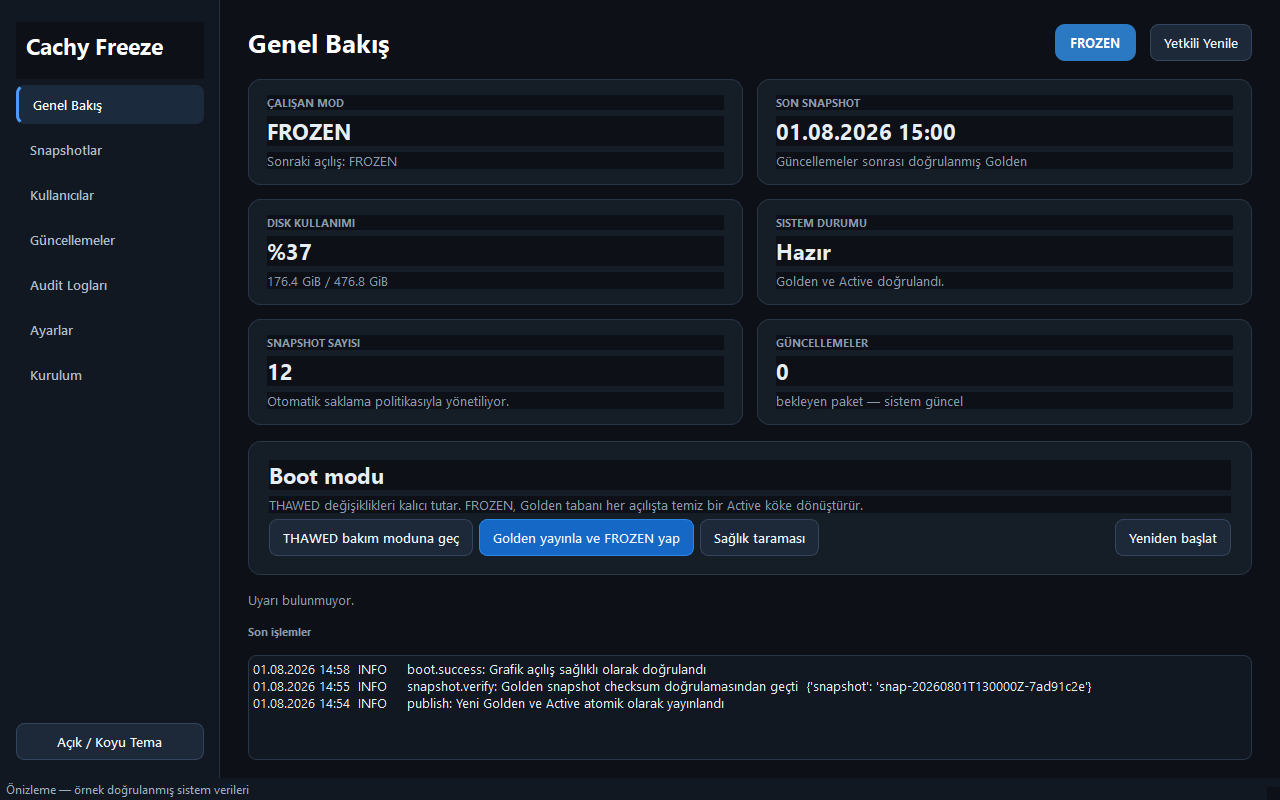
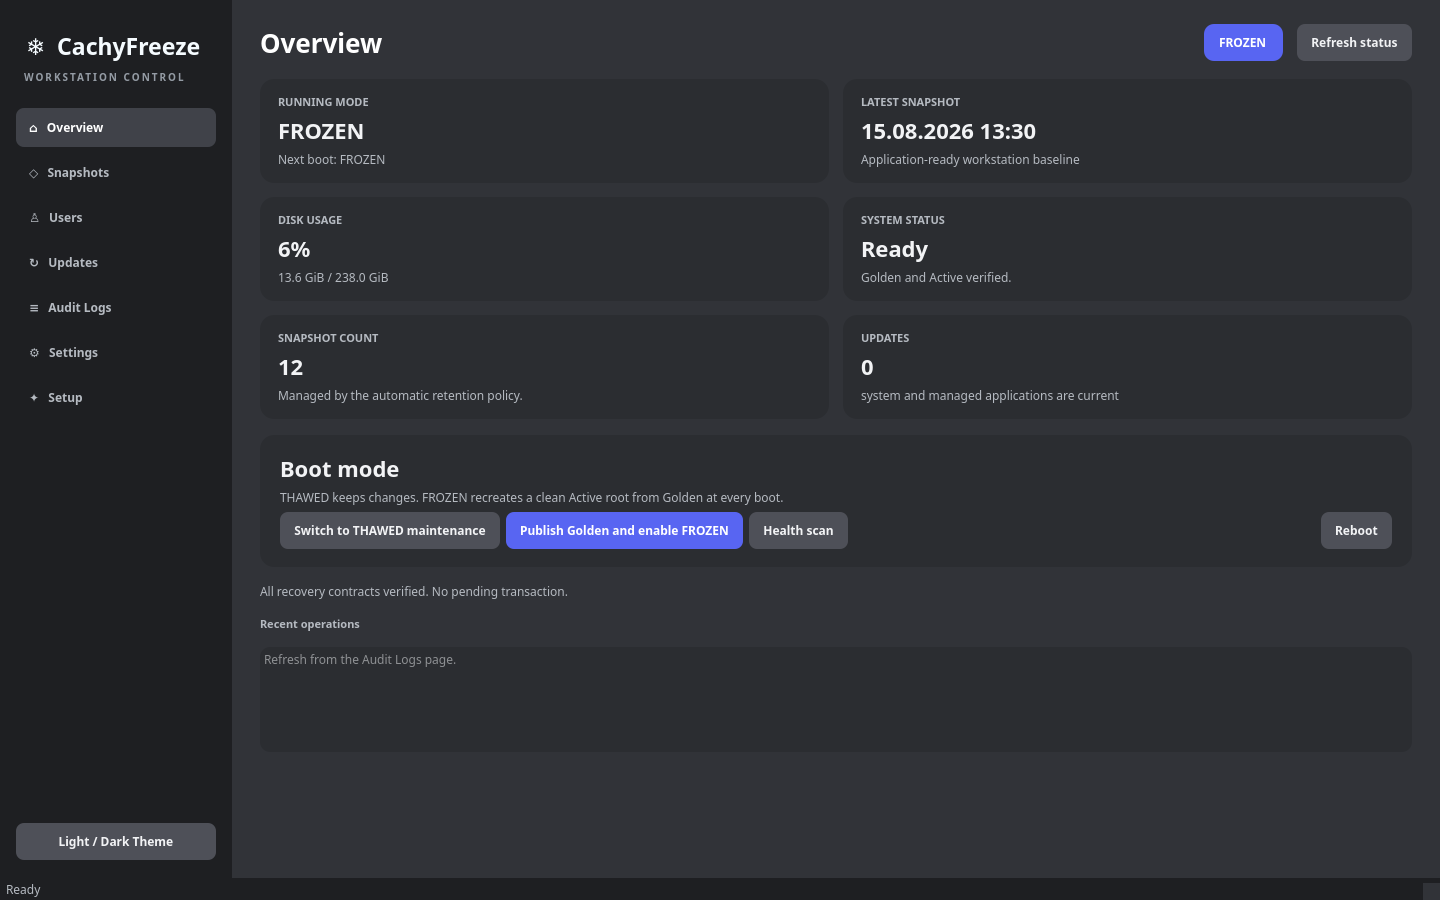
refresh installer documentation and project checks

diff --git a/tests/test_users.py b/tests/test_users.py
@@ -145,9 +145,7 @@ class UserValidationTests(unittest.TestCase):
                 patch.object(manager, "list_users", return_value=[created_user]),
                 patch.object(manager.runner, "run") as run,
             ):
-                self.assertEqual(
-                    manager.create("person_01", "Person One", "1234"), created_user
-                )
+                self.assertEqual(manager.create("person_01", "Person One", "1234"), created_user)
 
             self.assertEqual(run.call_args_list[0].args[0][0], "useradd")
             self.assertEqual(
@@ -176,7 +174,11 @@ class UserValidationTests(unittest.TestCase):
                 patch.object(
                     manager.runner,
                     "run",
-                    side_effect=[SimpleNamespace(returncode=0), RuntimeError("provision failed"), None],
+                    side_effect=[
+                        SimpleNamespace(returncode=0),
+                        RuntimeError("provision failed"),
+                        None,
+                    ],
                 ) as run,
                 self.assertRaisesRegex(RuntimeError, "provision failed"),
             ):

diff --git a/app/cachy_freeze_gui/window.py b/app/cachy_freeze_gui/window.py
@@ -715,7 +715,7 @@ class MainWindow(QMainWindow):
                 "Create a snapshot before the first Golden publication."
             )
         usage = shutil.disk_usage("/")
-        self.disk_card.value.setText(f"%{round(usage.used / usage.total * 100)}")
+        self.disk_card.value.setText(f"{round(usage.used / usage.total * 100)}%")
         self.disk_card.detail.setText(f"{_human_bytes(usage.used)} / {_human_bytes(usage.total)}")
         ready = bool(status.get("golden_present")) and bool(status.get("active_present"))
         pending = bool(status.get("transaction_pending"))

diff --git a/README.md b/README.md
@@ -1,96 +1,166 @@
 # CachyFreeze
 
-CachyFreeze is an open-source, Btrfs-based system freeze and recovery manager
-for CachyOS workstations. It restores managed machines to a known-good state
-after reboot while providing a persistent maintenance mode for administrators.
+[![Quality checks](https://github.com/q0xs/cachy-freeze/actions/workflows/static-tests.yml/badge.svg?branch=main)](https://github.com/q0xs/cachy-freeze/actions/workflows/static-tests.yml)
+[![License](https://img.shields.io/badge/license-Apache--2.0-blue.svg)](LICENSE)
+[![Platform](https://img.shields.io/badge/platform-CachyOS-5865F2.svg)](https://cachyos.org/)
 
-Copyright 2026 Atilla Mert Akkaya. Licensed under the Apache License 2.0.
+CachyFreeze is a graphical Btrfs freeze and recovery manager for managed
+CachyOS workstations. Administrators maintain a persistent system in THAWED
+mode, publish a verified Golden baseline, and return each FROZEN boot to that
+known-good state.
+
+![CachyFreeze Management Center](docs/images/cachy-freeze-management-center-preview.png)
 
 > [!CAUTION]
 > CachyFreeze changes Btrfs subvolumes, initramfs, GRUB, and the boot process.
-> Use a backed-up pilot device with physical access and recovery media.
+> Use a backed-up pilot device with physical access and recovery media. The
+> installer intentionally stops on unsupported disk or boot layouts.
 
-## Core capabilities
+## What it provides
 
-- FROZEN mode recreates a writable `@active` root from read-only `@golden`.
-- THAWED mode boots the persistent `@` maintenance root.
-- Interrupted Golden/Active transactions are recovered during early boot.
-- Repeated boot failures can restore the previous known-good Golden snapshot.
-- Snapshot creation, verification, comparison, export, import, retention, and
-  rollback are available from one desktop application.
-- Standard-user lifecycle, protected updates, audit logs, and boot policy are
-  managed from the same application.
-- Privileged operations use a strict PolicyKit helper allow-list.
-- Passwords and reusable password hashes travel through stdin, never command
-  arguments or logs.
+- FROZEN mode recreates writable `@active` from read-only `@golden` on boot.
+- THAWED mode boots the persistent `@` maintenance system.
+- Interrupted Golden and Active rotations use durable transaction recovery.
+- Repeated boot failures can restore the previous healthy Golden baseline.
+- Snapshots can be created, verified, compared, exported, imported, retained,
+  rolled back, and published from one desktop application.
+- Application-ready standard users receive verified desktop shortcuts, KDE
+  defaults, Chrome policy, and an isolated MicroSIP Wine profile.
+- The administrator remains fully privileged but is hidden from the graphical
+  login screen during FROZEN operation.
+- PolicyKit keeps the graphical application unprivileged and restricts root
+  operations to an explicit helper allow-list.
+- Passwords and reusable password hashes travel through stdin, never through
+  command arguments, environment variables, or logs.
 
-## Install
+## Supported system
 
-Install from a terminal with one command:
+CachyFreeze currently requires all of the following:
+
+- CachyOS with KDE Plasma
+- UEFI firmware
+- Btrfs root using the `@` subvolume
+- GRUB with the EFI system partition mounted at `/boot/efi`
+- no separate `/boot` filesystem
+- an existing `localadm` administrator account
+- AC power, recovery media, and a restorable backup
+
+It is not a generic installer for arbitrary Arch, ext4, BIOS, systemd-boot, or
+custom Btrfs layouts.
+
+## Download the complete installer
+
+The recommended method clones the complete repository, preserving executable
+permissions and downloading every installer, application, policy, user asset,
+test, and recovery component required by CachyFreeze:
+
+```bash
+git clone --depth 1 --branch main https://github.com/q0xs/cachy-freeze.git
+cd cachy-freeze
+sudo ./install.sh
+```
+
+You can also download the complete source bundle directly:
+
+**[Download the complete CachyFreeze installer (ZIP)](https://github.com/q0xs/cachy-freeze/archive/refs/heads/main.zip)**
+
+After extracting the ZIP, run this inside the extracted directory:
+
+```bash
+chmod +x install.sh app/cachy-freeze-setup app/cachy-freeze-manager-helper
+sudo ./install.sh
+```
+
+The root-level [`install.sh`](install.sh) is the public terminal installer. It
+runs the supported-layout preflight, installs the complete engine and graphical
+management application, publishes the initial Golden baseline, and leaves the
+next boot safely scheduled as THAWED.
+
+### Bootstrap installation
+
+For a disposable pilot or after reviewing the remote script, the short bootstrap
+command remains available:
 
 ```bash
 curl -fsSL https://raw.githubusercontent.com/q0xs/cachy-freeze/main/install.sh | sudo bash
 ```
 
-Alternatively, launch `cachyfreeze-setup.desktop` and use the Setup page. Both
-paths run the same preflight and privileged installer. Review `install.sh`
-before piping it to a root shell in security-sensitive environments.
+The downloaded bootstrap is not a partial installation: it installs Git, clones
+the complete `main` repository into a temporary directory, runs the same
+`installer/install-cachyfreeze.sh`, and removes only that temporary clone after
+completion.
 
-Installation leaves the system in THAWED maintenance mode. Engine installation,
-user creation, and FROZEN activation are independent:
+### Graphical setup
 
-1. Install CachyFreeze.
-2. Optionally create or manage users from the Users page at any time.
-3. Enable FROZEN from Setup, or publish later changes from Overview.
+To start from the desktop, clone or extract the complete installer and launch
+[`cachyfreeze-setup.desktop`](cachyfreeze-setup.desktop). The graphical Setup
+page uses the same preflight and privileged installer as the terminal entrypoint.
 
-No user account is required to enable FROZEN mode.
+## First workstation setup
 
-Application-ready standard users are created from the Users page while the
-machine is in THAWED maintenance mode. Install or repair the managed application
-set from Updates first. User creation then verifies the application commands,
-prepares the KDE desktop and isolated MicroSIP Wine profile, confirms that the
-account has no administrator membership, and captures its clean home template.
-The creation dialog can publish Golden and schedule FROZEN immediately afterward;
-reboot remains a separate, explicit action.
+Installation, application installation, user creation, and FROZEN activation
+are deliberately independent:
 
-## Requirements
+1. Install CachyFreeze. The machine remains in THAWED maintenance mode.
+2. Open **Updates** and select **Install / repair applications**.
+3. Open **Users** and select **Create ready user**.
+4. Use a lowercase login such as `wrw21166`; the account is created with native
+   CachyOS standard-user defaults and is rejected if it unexpectedly has
+   administrator membership.
+5. Keep **Publish Golden and schedule FROZEN mode after creation** enabled if the
+   next manually initiated reboot should present the prepared employee account.
 
-- CachyOS with KDE Plasma
-- UEFI boot
-- Btrfs root using the `@` subvolume
-- GRUB
-- EFI system partition mounted at `/boot/efi`
-- no separate `/boot` filesystem
-- a working `localadm` administrator account
-- AC power, recovery media, and a recoverable backup
+User provisioning verifies Chrome, Slack, LibreOffice, Zoiper, AnyDesk, Wine,
+and MicroSIP before capturing the clean home template. Failure removes the
+partial account and candidate template. CachyFreeze does not rewrite the
+account's native group membership.
 
-## Architecture
+No operation in the creation dialog reboots the computer automatically.
 
-| Component | Responsibility |
+## Boot model
+
+| Subvolume | Role |
 | --- | --- |
-| `app/` | PyQt6 desktop application, launcher, and PolicyKit boundary |
-| `src/cachy_freeze/` | Snapshot, boot, settings, update, audit, and user domain logic |
-| `deepfreeze/` | Btrfs early-boot reset, GRUB, initramfs, and systemd integration |
-| `installer/` | Internal GUI-driven provisioning actions; not user entry points |
-| `user/` | Managed-user desktop and home-reset integration |
+| `@` | Persistent THAWED maintenance root |
+| `@golden` | Read-only known-good baseline |
+| `@active` | Disposable writable FROZEN runtime |
+| `@cachy-state` | Persistent settings, audit, health, and transaction state |
+| `@cachy-snapshots` | Managed recovery snapshots |
+
+FROZEN is the passwordless daily boot path. THAWED maintenance is protected by
+the GRUB `cachyadmin` credential configured during activation.
+
+## Repository layout
+
+| Path | Responsibility |
+| --- | --- |
+| `install.sh` | Public complete-repository terminal installer |
+| `app/` | PyQt6 Management Center, launcher, PolicyKit helper, desktop files |
+| `src/cachy_freeze/` | Snapshot, boot, settings, update, audit, and user logic |
+| `deepfreeze/` | Btrfs early-boot reset, GRUB, initramfs, systemd, safe tests |
+| `installer/` | Internal verified installation and maintenance operations |
+| `user/` | Managed-user desktop assets and FROZEN home reset integration |
 | `policies/` | Managed application policies |
-| `tests/` | Unit and setup-contract tests |
+| `vendor/aur/` | Reviewed AUR build inputs used by application installation |
+| `tests/` | Python and graphical contract tests |
+| `docs/` | Architecture, installation, recovery, development, and test evidence |
 
-The persistent Btrfs model is documented in
-[docs/architecture.md](docs/architecture.md).
+## Validation
 
-## Development checks
+The normal local quality gate is:
 
 ```bash
 ruff check src app/cachy_freeze_gui tests
 ruff format --check src app/cachy_freeze_gui tests
-python -m unittest discover -s tests -v
+PYTHONPATH=src:app python -m unittest discover -s tests -v
 SHELLCHECK_OPTS=--severity=error bash deepfreeze/tests/static.sh
 QT_QPA_PLATFORM=offscreen bash deepfreeze/tests/ui-smoke.sh
+bash deepfreeze/tests/grub-generation.sh
 ```
 
-Btrfs loop, initramfs, GRUB, reboot, and power-loss tests must run only on a
-disposable VM or an explicitly approved pilot device.
+Loop-backed Btrfs, initramfs, reboot, recovery, and power-loss tests must run only
+on a disposable VM or an explicitly approved pilot device. Executed evidence is
+recorded in [`docs/testing/TEST-LOG.md`](docs/testing/TEST-LOG.md).
 
 ## Documentation
 
@@ -98,8 +168,11 @@ disposable VM or an explicitly approved pilot device.
 - [Architecture](docs/architecture.md)
 - [Boot recovery](docs/boot-recovery.md)
 - [Development workflow](docs/development.md)
-- [Test log](docs/testing/TEST-LOG.md)
+- [Test evidence](docs/testing/TEST-LOG.md)
 
 ## License
 
-Apache License 2.0. See [LICENSE](LICENSE) and [NOTICE](NOTICE).
+Copyright 2026 Atilla Mert Akkaya.
+
+Licensed under the Apache License 2.0. See [LICENSE](LICENSE) and
+[NOTICE](NOTICE).

diff --git a/docs/testing/TEST-LOG.md b/docs/testing/TEST-LOG.md
@@ -4,6 +4,20 @@ This file is the durable, English-only record of executed tests. Add results wit
 date, target, commit, command or scenario, result, and relevant non-sensitive notes.
 Never record passwords, hashes, tokens, device UUIDs, or private user data.
 
+## 2026-08-15 — installer, README and CI refresh — local working tree after `b0a391c`
+
+- PASS — Ruff 0.16.3 check and format check; 25 Python files checked.
+- PASS — 42/42 Python unit and GUI contract tests.
+- PASS — full ShellCheck 0.11.0 error-level scan of every repository Bash script.
+- PASS — Bash/static, desktop, XML/JSON, installer-link and complete-repository
+  download contracts.
+- PASS — Qt offscreen seven-page smoke test with the refreshed English UI.
+- PASS — isolated GRUB generation and syntax test; no installed GRUB file was changed.
+- PASS — Python bytecode compilation and `git diff --check`.
+- NOT RUN — privileged temporary-user/Btrfs integrations, live package installation,
+  Golden publication, GRUB/initramfs writes, and reboot. This validation pass did
+  not mutate the physical boot stack and did not restart the workstation.
+
 ## 2026-08-15 — ready-user and UI update — local working tree after `3466a8e`
 
 - PASS — 42/42 Python unit and GUI contract tests.
